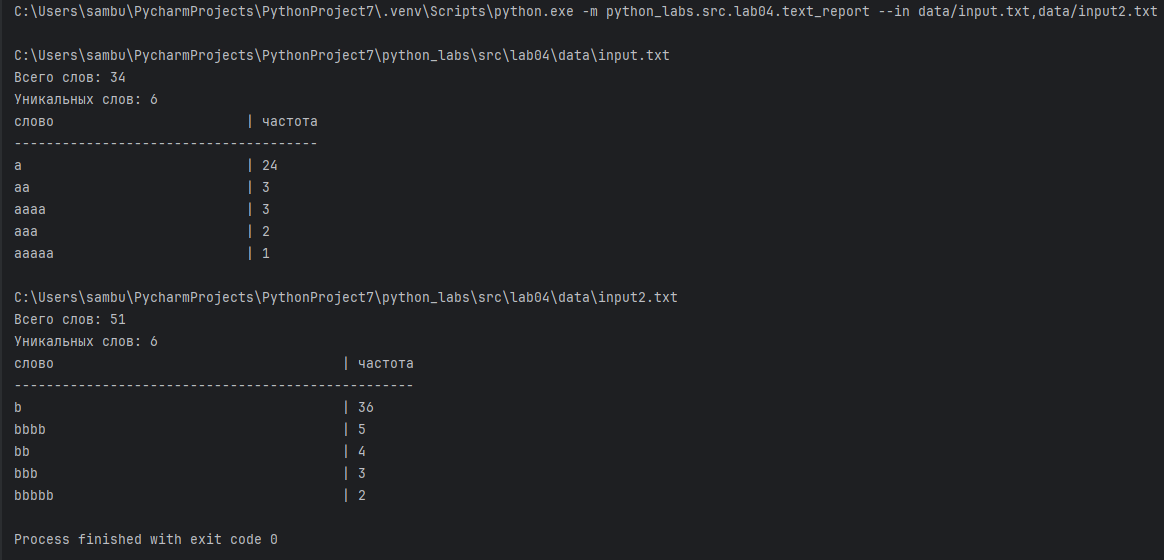
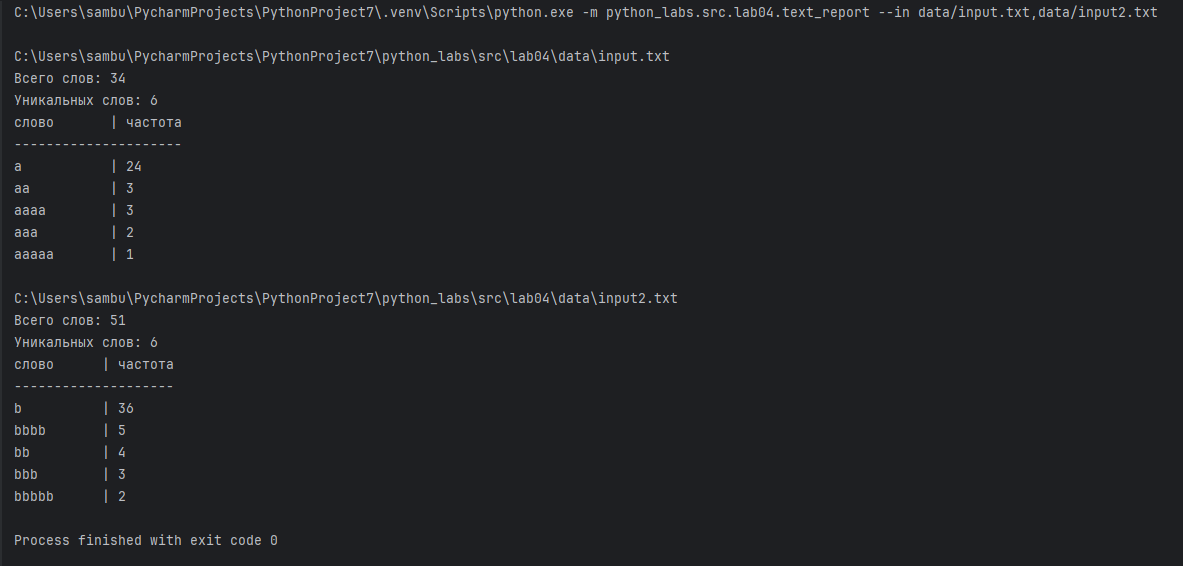
commit message

diff --git a/src/lab03/text_stats.py b/src/lab03/text_stats.py
@@ -8,7 +8,7 @@ def stats_wo_table(tknzd_txt):
     return tknzd_txt
 
 def table(freq_text):
-    col_len = max(freq_text.values()) + 5
+    col_len = max(list(map(len, freq_text.keys()))) + 5
     freq_text = top_n(freq_text, n=5)
     print('слово' + ' ' * (col_len - 5) + '| частота')
     print('-' * (col_len + 9))
